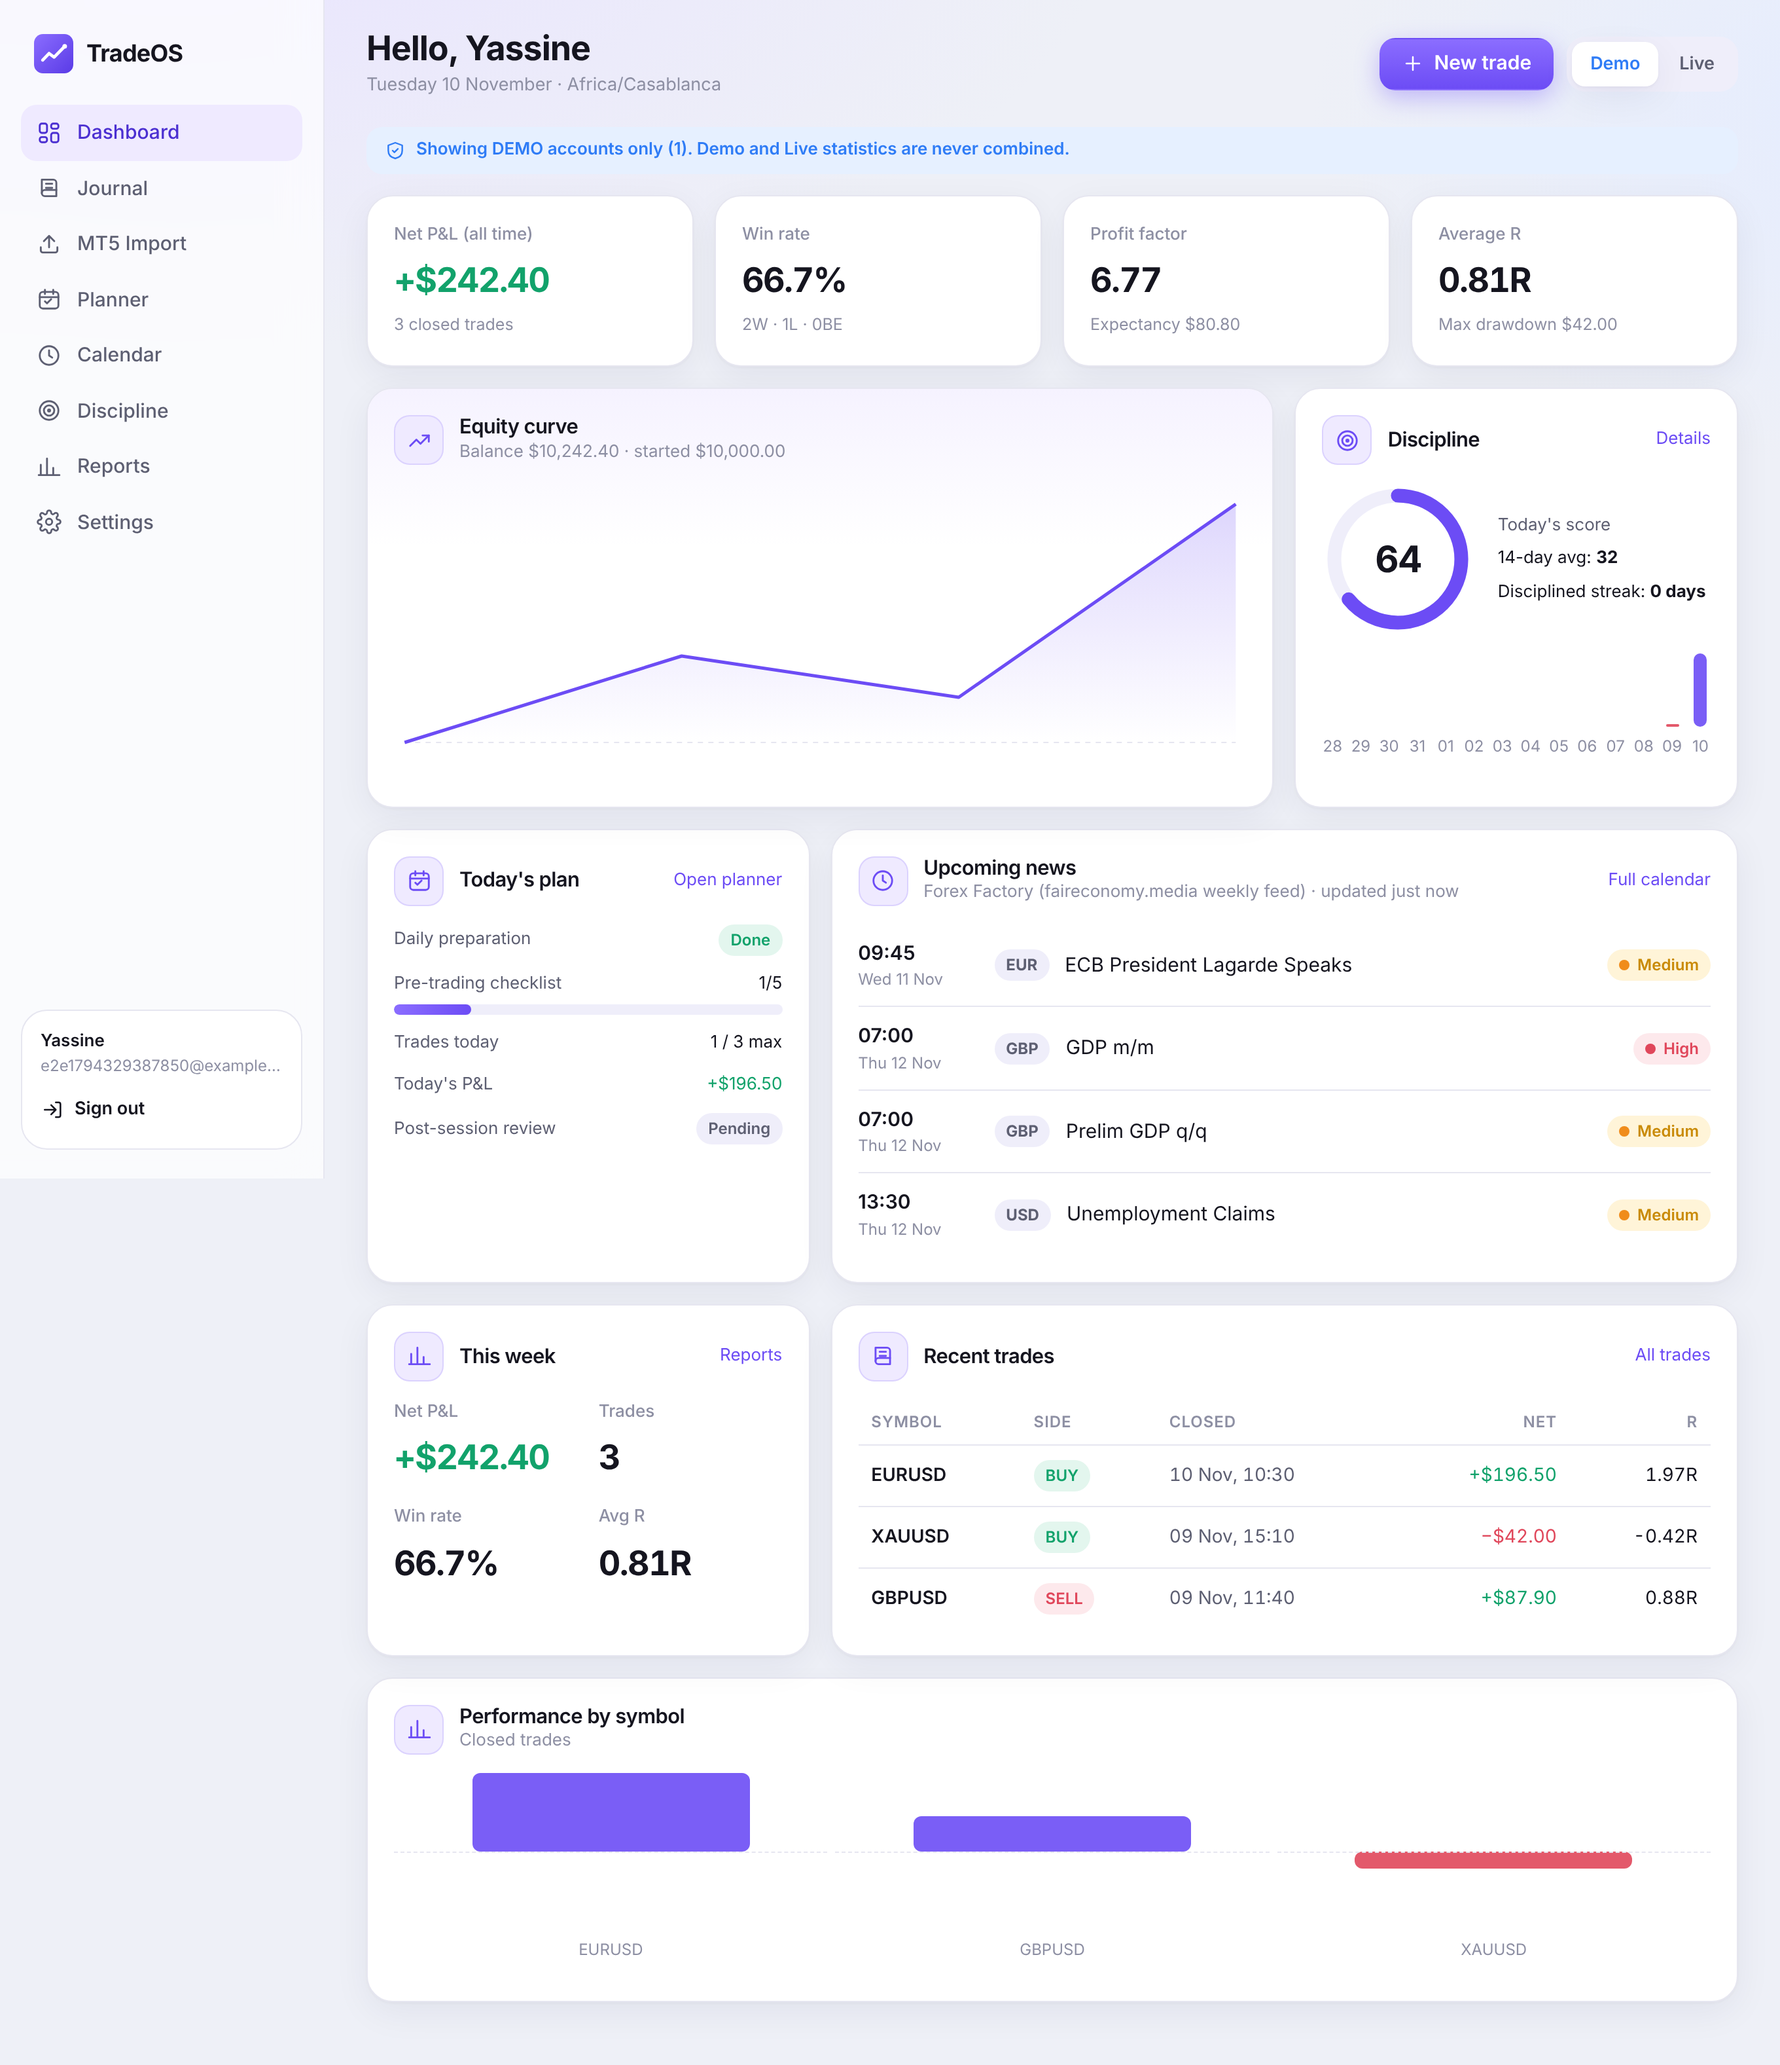
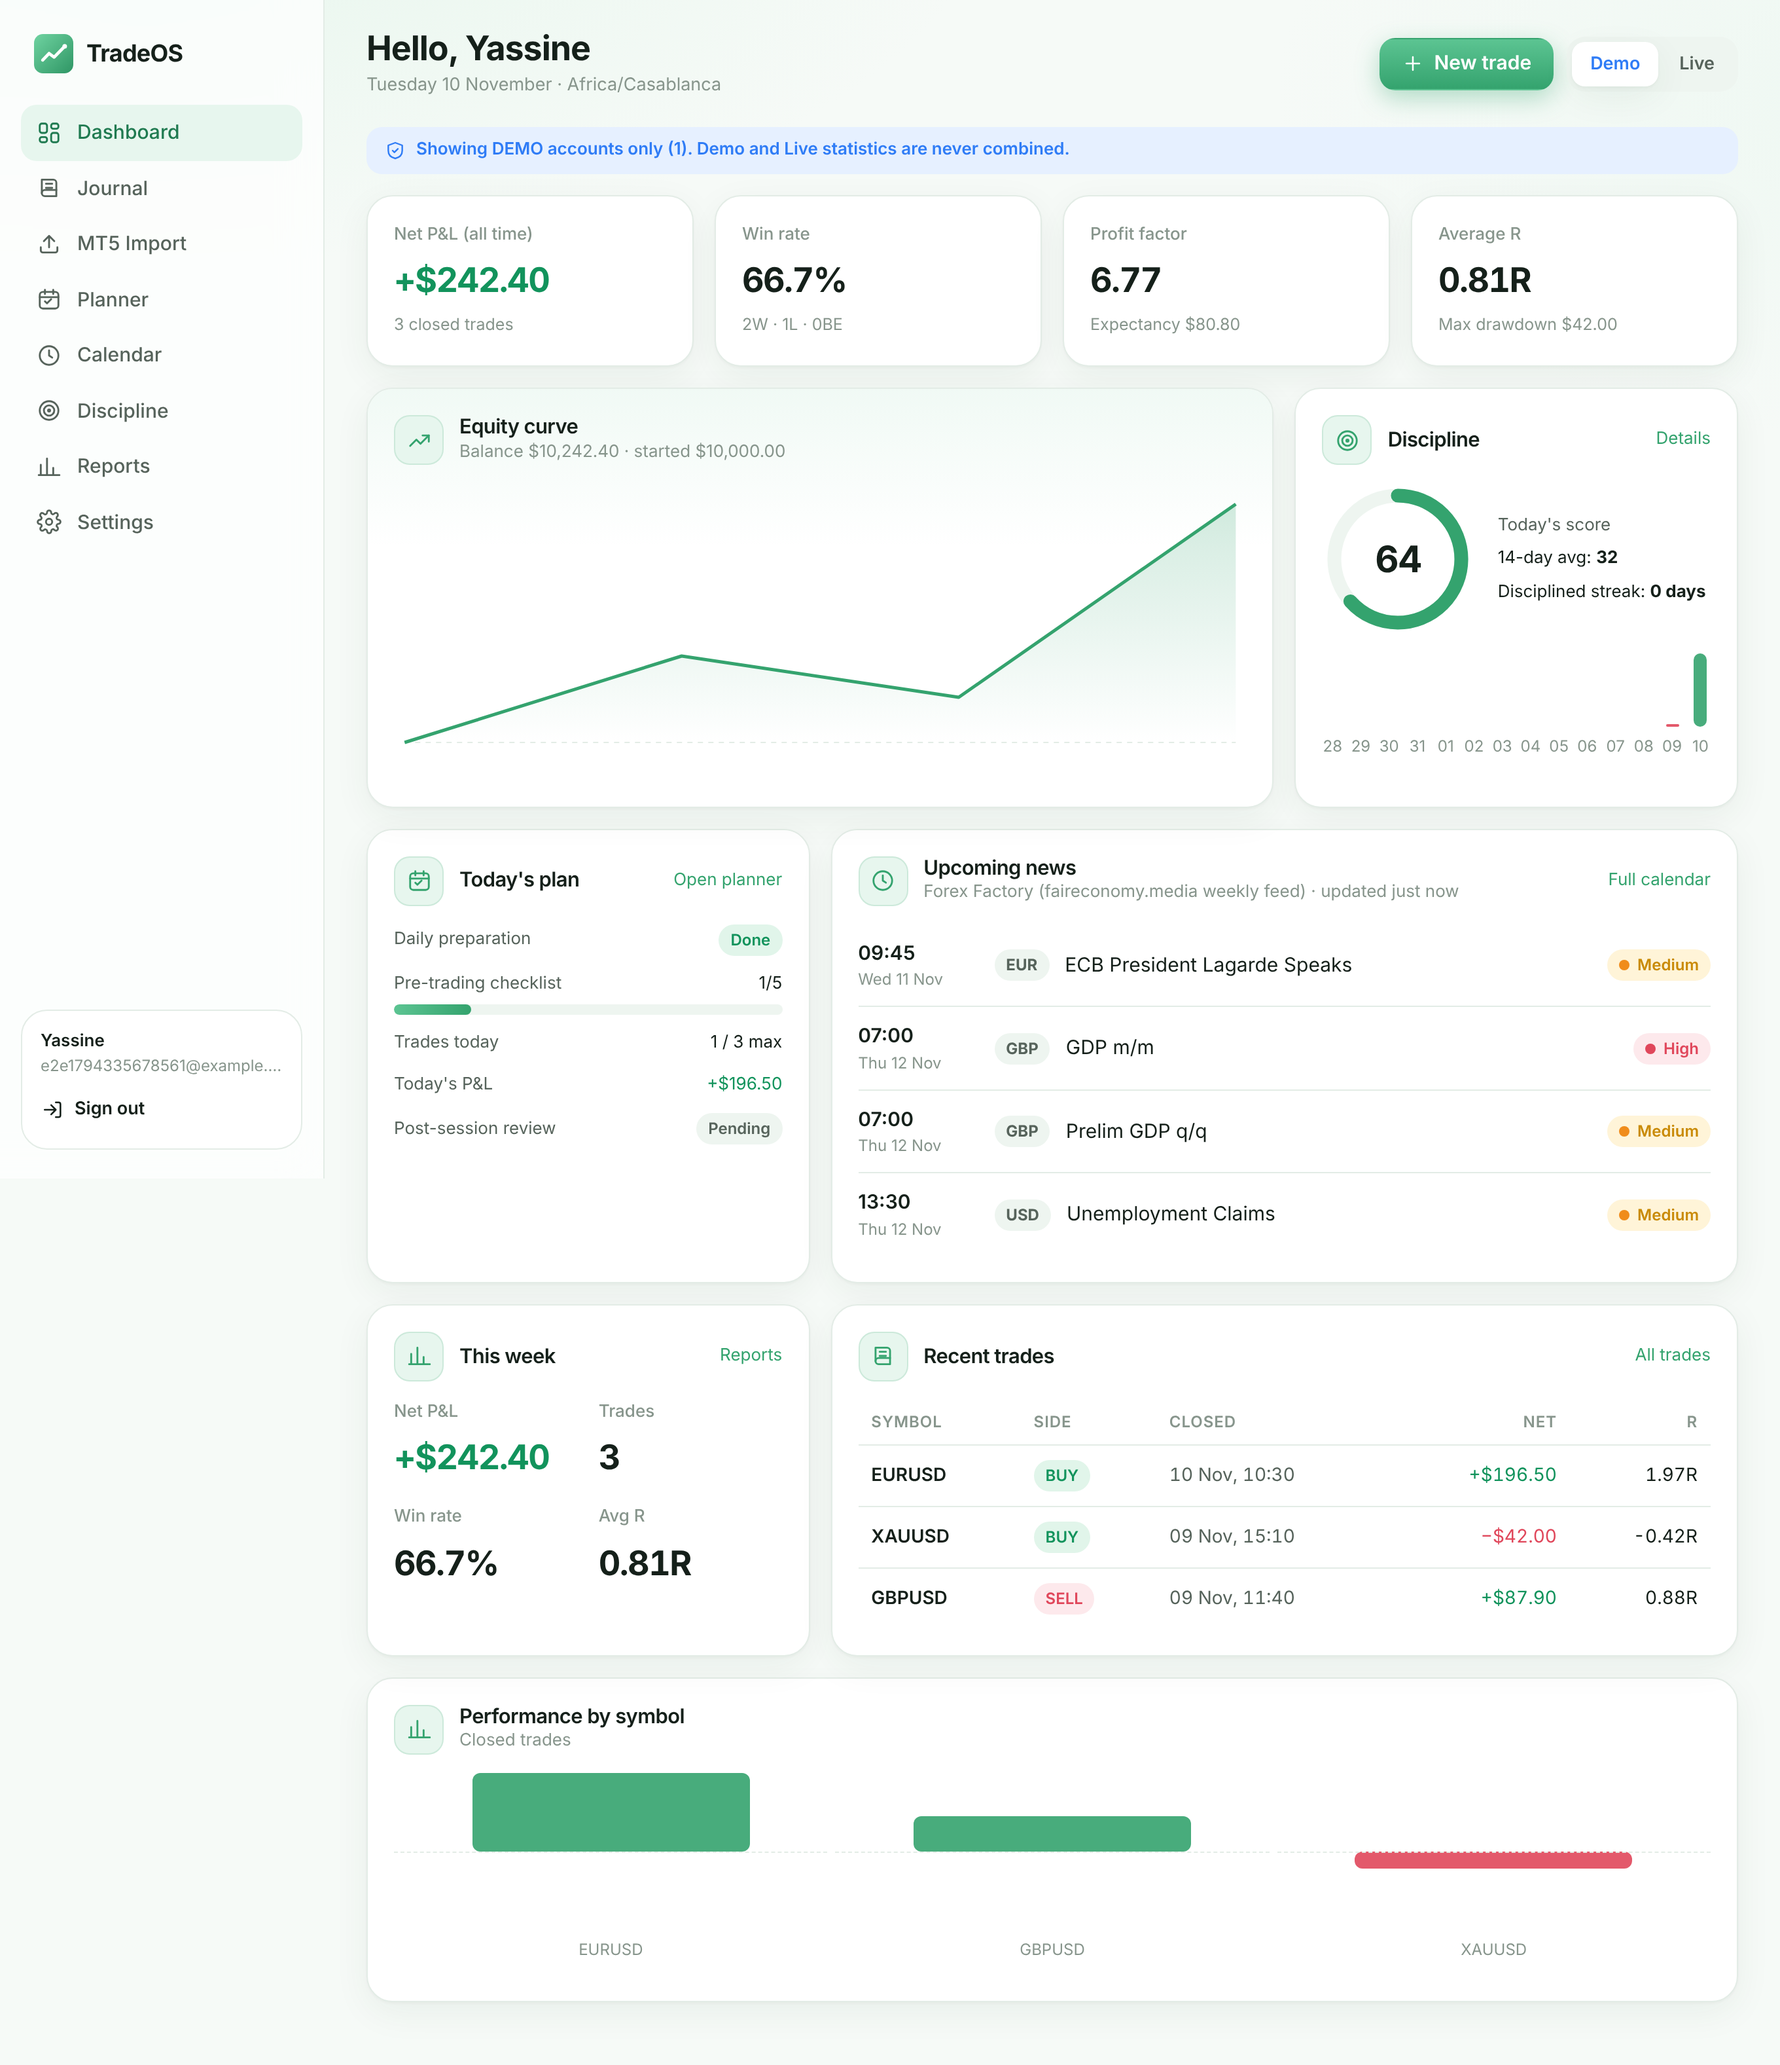
New look: white with soft green accents, always light theme
Claude-Session: https://claude.ai/code/session_01P2KAyeHNfTpvZvA8QV9C45

diff --git a/client/src/styles.css b/client/src/styles.css
@@ -1,57 +1,38 @@
 :root {
-  --bg: #eef0f7;
-  --bg-grad: radial-gradient(1200px 600px at 10% -10%, #e9e4ff 0%, transparent 60%), radial-gradient(900px 500px at 110% 10%, #e4ecff 0%, transparent 55%);
+  /* Light theme: white with a soft touch of green. */
+  --bg: #f6faf7;
+  --bg-grad: radial-gradient(1100px 520px at 8% -12%, #e6f6ec 0%, transparent 60%), radial-gradient(900px 480px at 108% 8%, #eef8f2 0%, transparent 55%);
   --surface: #ffffff;
-  --surface-2: #f6f6fb;
-  --surface-3: #efeefa;
-  --border: #e6e6f0;
-  --text: #15151f;
-  --text-2: #5d5f72;
-  --text-3: #8d8fa3;
-  --accent: #6c4cf5;
-  --accent-2: #8b6dff;
-  --accent-soft: #efeaff;
-  --accent-ink: #4b2fd1;
-  --pos: #12a26b;
-  --pos-soft: #e3f6ee;
+  --surface-2: #f7fbf8;
+  --surface-3: #eef5f0;
+  --border: #e3ece6;
+  --text: #15201a;
+  --text-2: #56635b;
+  --text-3: #87958c;
+  --accent: #34a36e;
+  --accent-2: #5cc492;
+  --accent-soft: #e7f6ee;
+  --accent-ink: #1f7a50;
+  --pos: #12935c;
+  --pos-soft: #e1f5ea;
   --neg: #e0475b;
   --neg-soft: #fde9ec;
   --warn: #c98a06;
   --warn-soft: #fff4d8;
   --high: #e0475b;
   --medium: #f08c1b;
-  --low: #a0a3b5;
+  --low: #a0a8a3;
   --demo: #2f7cf6;
   --demo-soft: #e6f0ff;
   --live: #e2611b;
   --live-soft: #ffeede;
-  --shadow: 0 1px 2px rgba(22, 20, 60, .04), 0 8px 28px rgba(22, 20, 60, .06);
-  --shadow-lg: 0 20px 60px rgba(40, 20, 120, .14);
+  --shadow: 0 1px 2px rgba(20, 60, 35, .04), 0 8px 28px rgba(20, 60, 35, .06);
+  --shadow-lg: 0 20px 60px rgba(20, 80, 45, .14);
   --radius: 20px;
   --radius-sm: 12px;
   --font: Inter, ui-sans-serif, system-ui, -apple-system, "Segoe UI", Roboto, "Helvetica Neue", Arial, sans-serif;
   --mono: ui-monospace, SFMono-Regular, Menlo, Consolas, monospace;
   color-scheme: light;
-}
-@media (prefers-color-scheme: dark) {
-  :root:not([data-theme="light"]) {
-    --bg: #0e0f16; --bg-grad: radial-gradient(1200px 600px at 10% -10%, #1d173a 0%, transparent 60%), radial-gradient(900px 500px at 110% 10%, #131a33 0%, transparent 55%);
-    --surface: #171823; --surface-2: #1d1f2c; --surface-3: #242637; --border: #2a2c3c;
-    --text: #ecedf5; --text-2: #a9abbe; --text-3: #75778c;
-    --accent: #8b6dff; --accent-2: #a58dff; --accent-soft: #2a2350; --accent-ink: #c7b9ff;
-    --pos: #34c98c; --pos-soft: #12301f; --neg: #ff6b7d; --neg-soft: #3a1820; --warn: #f2b53a; --warn-soft: #3a2c10;
-    --demo: #6aa3ff; --demo-soft: #16264a; --live: #ff9152; --live-soft: #3c2212;
-    --shadow: 0 1px 2px rgba(0,0,0,.3), 0 8px 28px rgba(0,0,0,.25); color-scheme: dark;
-  }
-}
-:root[data-theme="dark"] {
-  --bg: #0e0f16; --bg-grad: radial-gradient(1200px 600px at 10% -10%, #1d173a 0%, transparent 60%), radial-gradient(900px 500px at 110% 10%, #131a33 0%, transparent 55%);
-  --surface: #171823; --surface-2: #1d1f2c; --surface-3: #242637; --border: #2a2c3c;
-  --text: #ecedf5; --text-2: #a9abbe; --text-3: #75778c;
-  --accent: #8b6dff; --accent-2: #a58dff; --accent-soft: #2a2350; --accent-ink: #c7b9ff;
-  --pos: #34c98c; --pos-soft: #12301f; --neg: #ff6b7d; --neg-soft: #3a1820; --warn: #f2b53a; --warn-soft: #3a2c10;
-  --demo: #6aa3ff; --demo-soft: #16264a; --live: #ff9152; --live-soft: #3c2212;
-  --shadow: 0 1px 2px rgba(0,0,0,.3), 0 8px 28px rgba(0,0,0,.25); color-scheme: dark;
 }
 
 * { box-sizing: border-box; }

diff --git a/client/index.html b/client/index.html
@@ -3,8 +3,8 @@
   <head>
     <meta charset="UTF-8" />
     <meta name="viewport" content="width=device-width, initial-scale=1, viewport-fit=cover" />
-    <meta name="theme-color" content="#f1f2f8" media="(prefers-color-scheme: light)" />
-    <meta name="theme-color" content="#0f1017" media="(prefers-color-scheme: dark)" />
+    <meta name="theme-color" content="#f6faf7" />
+    <meta name="color-scheme" content="light" />
     <meta name="description" content="TradeOS — trading journal, daily planner, economic calendar and discipline tracking." />
     <link rel="manifest" href="/manifest.webmanifest" />
     <link rel="icon" href="/icons/icon.svg" type="image/svg+xml" />

diff --git a/client/public/sw.js b/client/public/sw.js
@@ -1,5 +1,5 @@
 /* TradeOS service worker: app-shell caching + Web Push. Never caches /api (private data). */
-const CACHE = 'tradeos-shell-v1';
+const CACHE = 'tradeos-shell-v2';
 const SHELL = ['/', '/manifest.webmanifest', '/icons/icon.svg', '/icons/icon-192.png'];
 
 self.addEventListener('install', (e) => {
